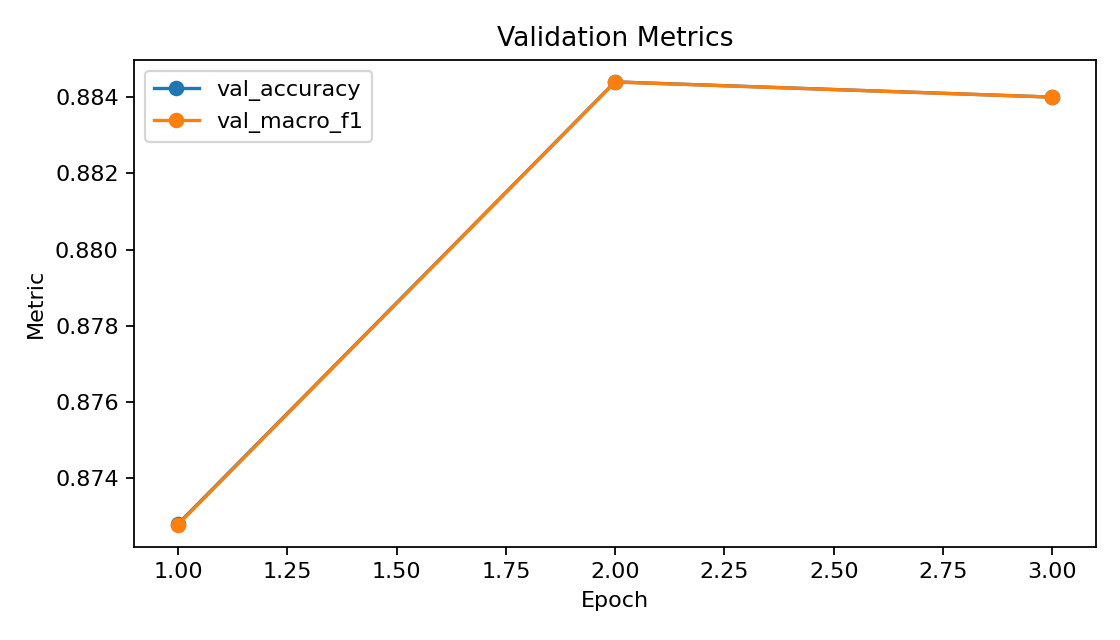
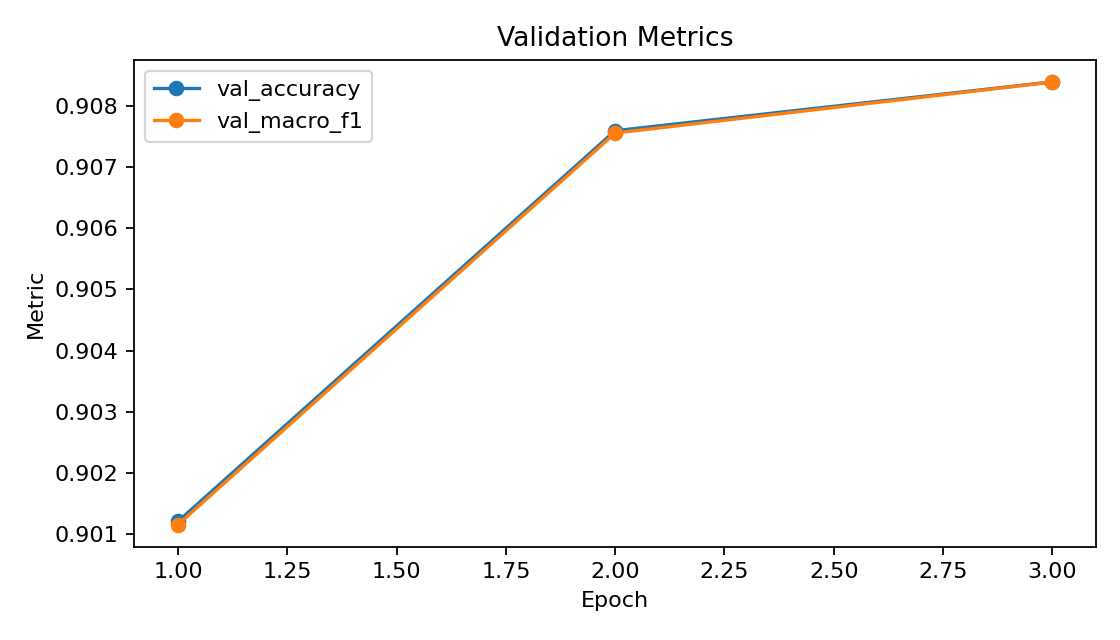
update lab5

diff --git a/outputs/metrics/metrics_summary.md b/outputs/metrics/metrics_summary.md
@@ -5,20 +5,20 @@
 - Fine-tuning mode: `full_finetune`
 - Seed: `42`
 - Device: `cpu`
-- Max length: `128`
+- Max length: `256`
 - Trainable params: `66955010` / `66955010`
 
 ## Validation
 
-- Loss: `0.3207`
-- Accuracy: `0.8844`
-- Macro-F1: `0.8844`
+- Loss: `0.3242`
+- Accuracy: `0.9084`
+- Macro-F1: `0.9084`
 
 ## Test
 
-- Loss: `0.3273`
-- Accuracy: `0.8764`
-- Macro-F1: `0.8764`
+- Loss: `0.3009`
+- Accuracy: `0.9100`
+- Macro-F1: `0.9100`
 
 ## Notes
 

diff --git a/outputs/logs/tokenization_audit.md b/outputs/logs/tokenization_audit.md
@@ -3,7 +3,7 @@
 File này giúp kiểm tra tokenizer đang biến văn bản thành chuỗi token như thế nào.
 
 - Tokenizer/model: `distilbert-base-uncased`
-- `max_length`: `128`
+- `max_length`: `256`
 - Số dòng train/val/test: `22500` / `2500` / `25000`
 - Phân bố nhãn train: `{'0': 11250, '1': 11250}`
 
@@ -15,7 +15,7 @@ File này giúp kiểm tra tokenizer đang biến văn bản thành chuỗi toke
 - P90: `603.10`
 - P95: `800.10`
 - Max: `2222`
-- Tỷ lệ mẫu có khả năng bị cắt ngắn: `89.15%`
+- Tỷ lệ mẫu có khả năng bị cắt ngắn: `42.95%`
 
 ## Gợi ý đọc kết quả
 

diff --git a/outputs/error_analysis/error_analysis_summary.md b/outputs/error_analysis/error_analysis_summary.md
@@ -1,6 +1,6 @@
 # Error analysis summary
 
-- Number of wrong predictions: `3090`
+- Number of wrong predictions: `2250`
 - Suggested minimum samples to inspect: `10`
 
 ## Gợi ý phân tích